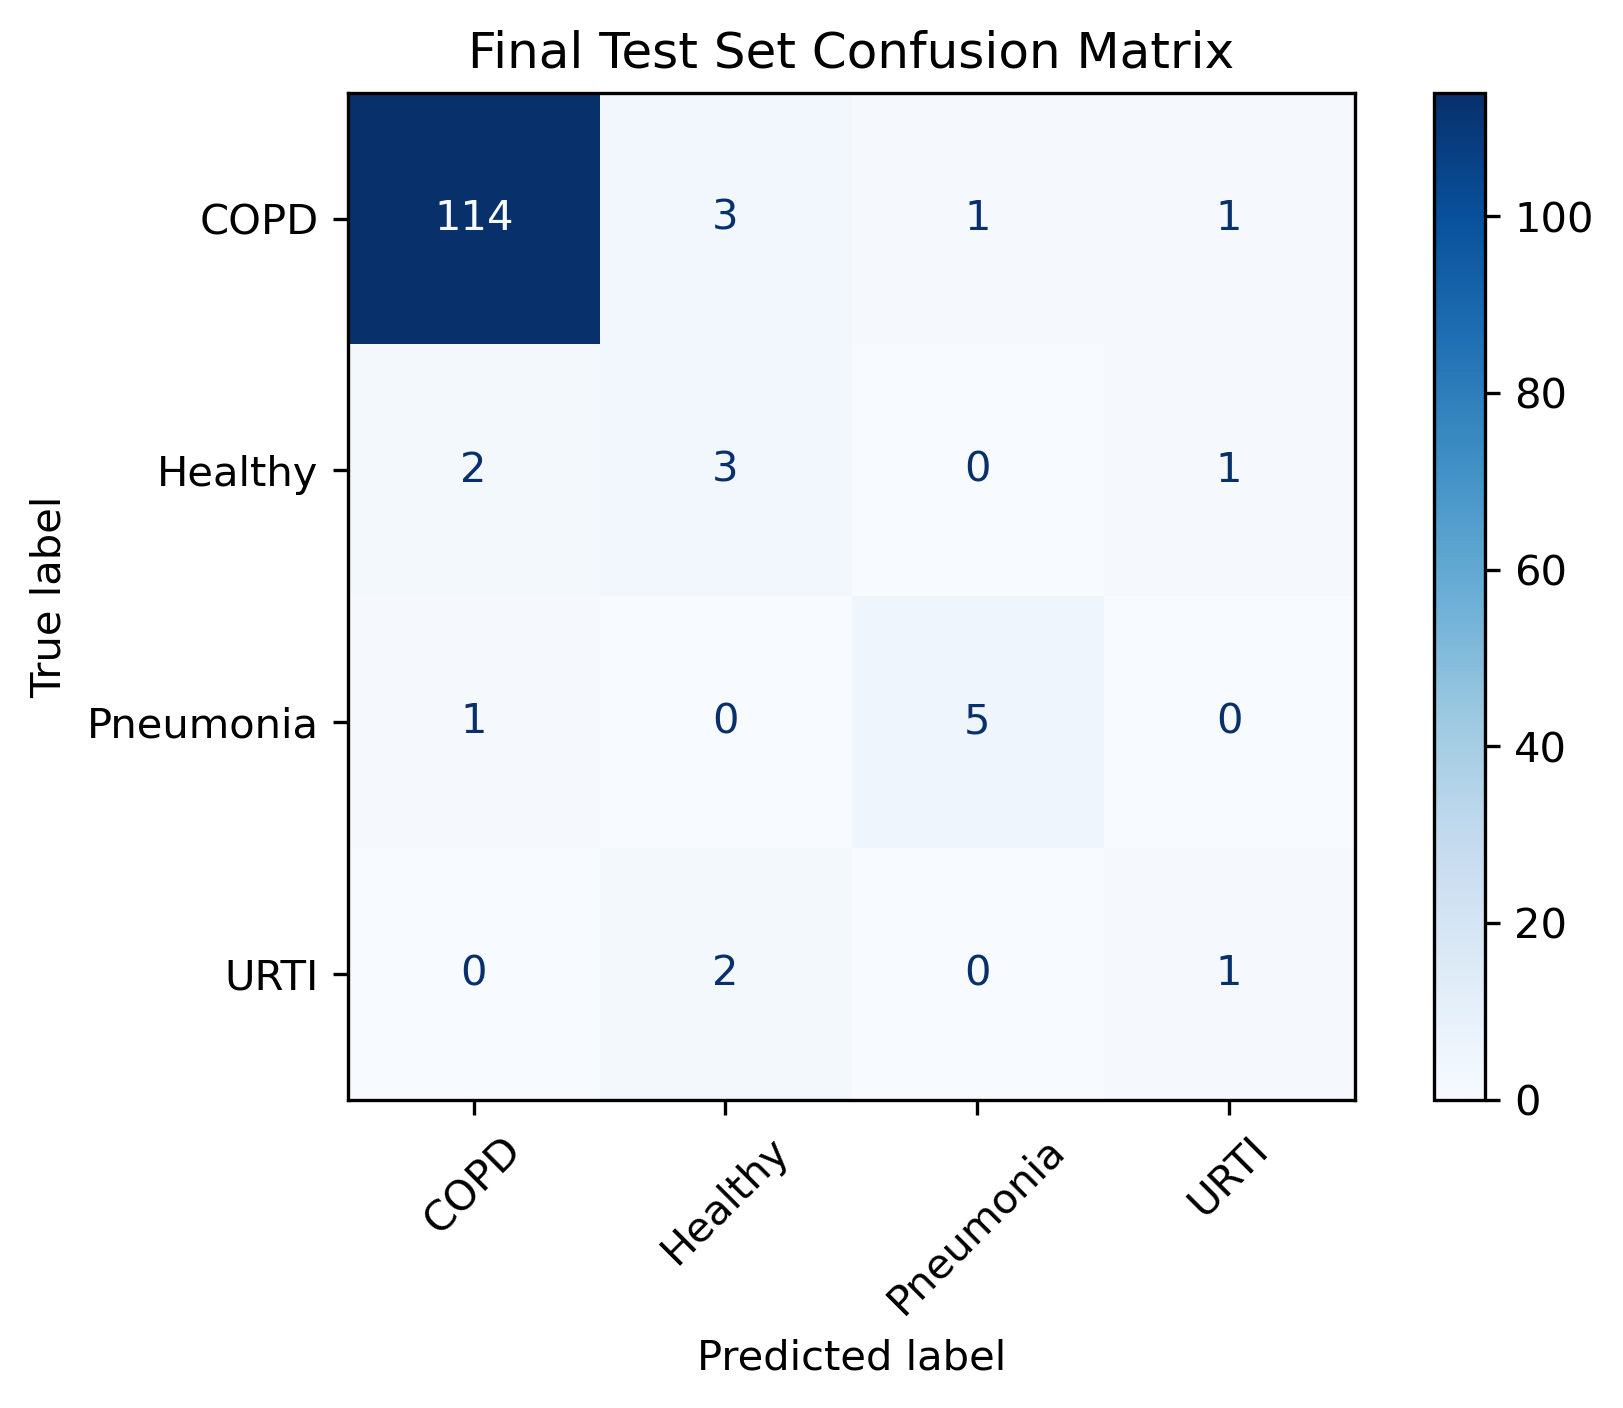
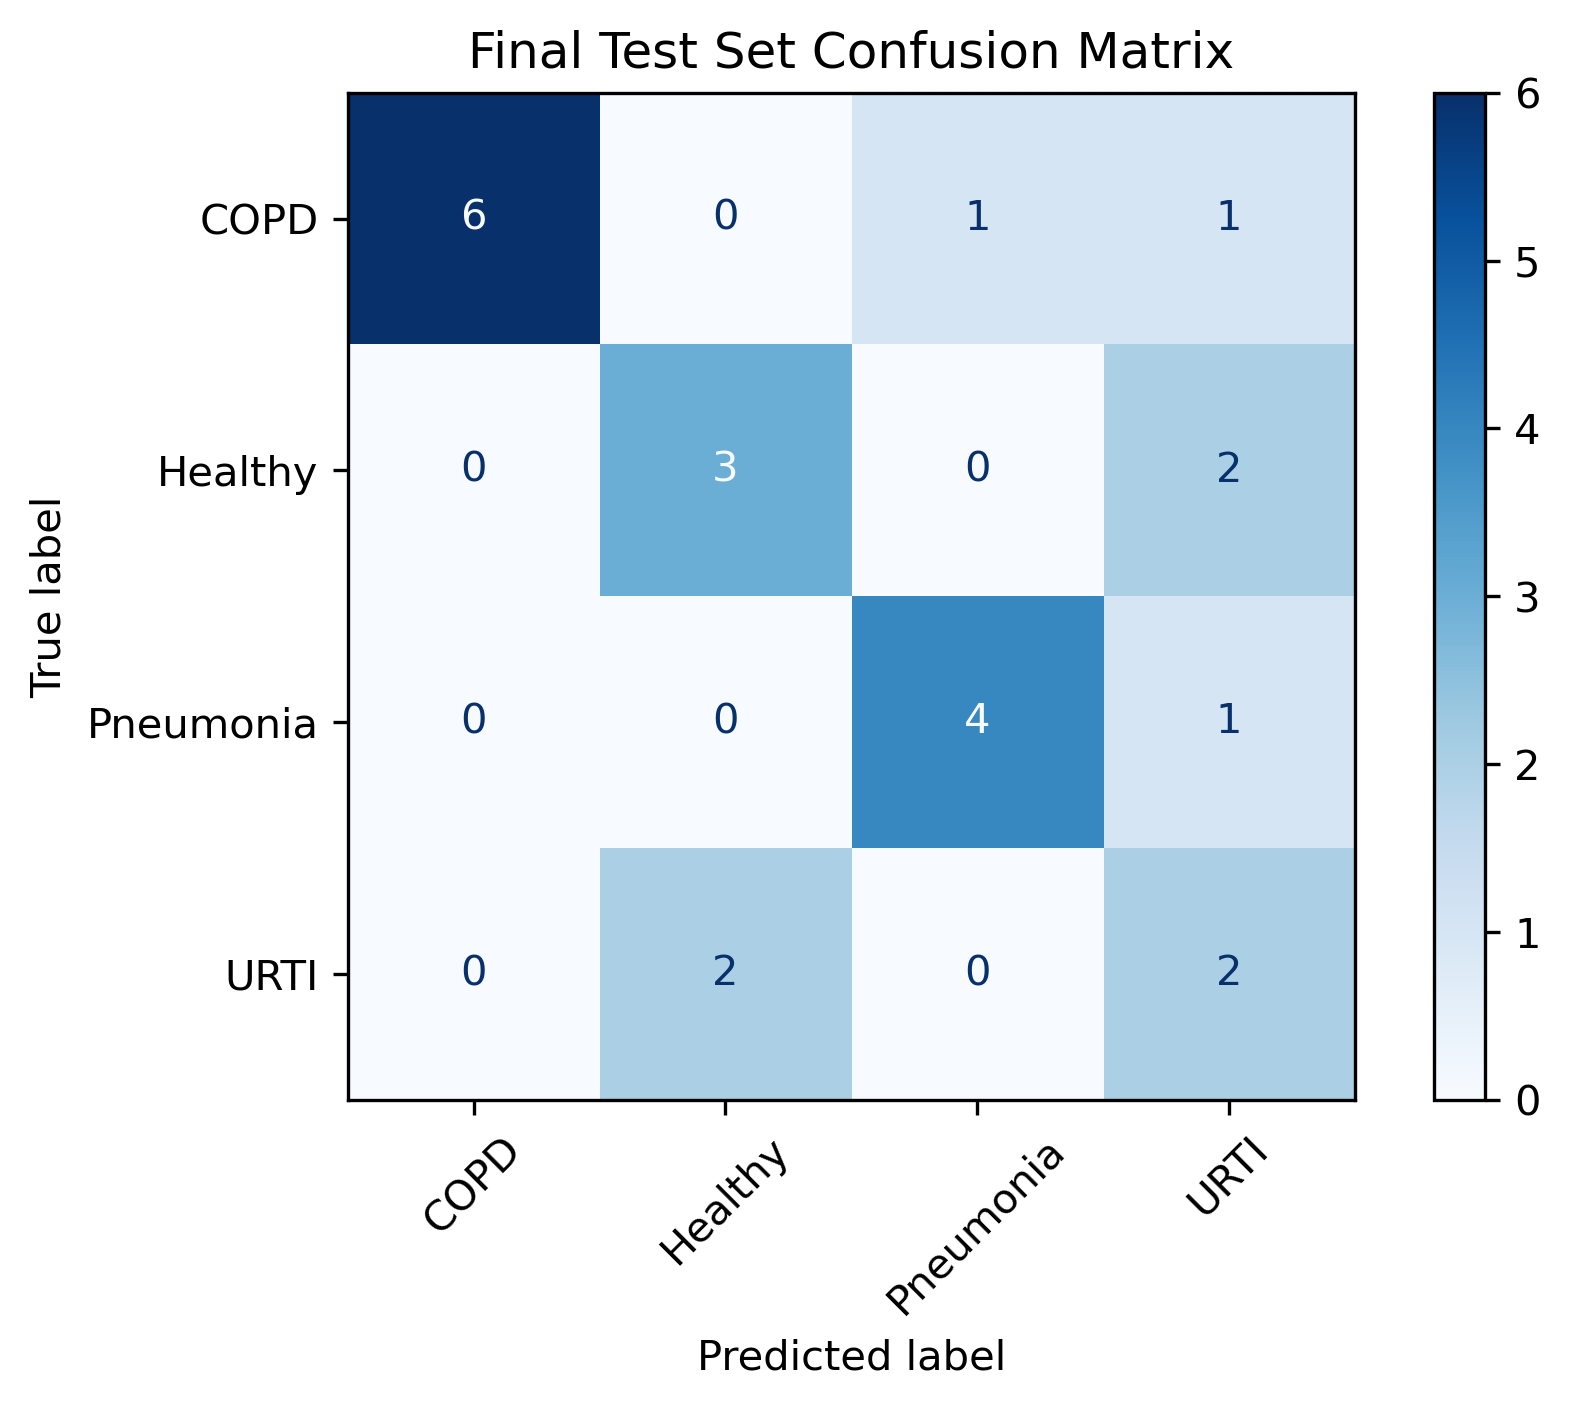
ICBHI try to banlance but looks so so

diff --git a/benchmark/mlp/ICBHI/ICBHI_mlp.py b/benchmark/mlp/ICBHI/ICBHI_mlp.py
@@ -49,11 +49,11 @@ class Config:
     METRICS_FILENAME = "icbhi_training_metrics_detailed.txt"
     CONFUSION_MATRIX_FILENAME = "icbhi_confusion_matrix.png"
 
-# ICBHI数据集类（适配多分类和WAV文件，过滤低占比类别）
+# ICBHI数据集类（适配多分类和WAV文件，平衡COPD类别数量）
 class ICBHIDataset(BaseDataset):
     @classmethod
     def load_data(cls, root_dir):
-        """加载ICBHI数据集，过滤掉占比低于2%的类别"""
+        """加载ICBHI数据集，过滤低占比类别并将COPD样本限制为50个左右"""
         # 标签文件的固定路径
         label_file_path = "/mnt/data/test1/Speech_Disease_Recognition_Dataset_Benchmark/benchmark/mlp/ICBHI/number_label.txt"
         
@@ -123,14 +123,34 @@ class ICBHIDataset(BaseDataset):
         if not Config.CLASS_NAMES:
             raise ValueError("没有类别满足占比 >= 2%的条件，无法继续处理")
         
-        # 第二遍筛选：只保留符合条件的文件
-        file_list = []
+        # 分离COPD和其他类别，限制COPD数量为50个左右
+        copd_files = []
+        other_files = []
+        target_copd_count = 50  # 目标COPD样本数量
+        
         for file_path, label_name in raw_file_list:
             if label_name in Config.CLASS_NAMES:
-                label = Config.CLASS_NAMES.index(label_name)
-                file_list.append((file_path, label))
+                if label_name == "COPD":
+                    copd_files.append((file_path, label_name))
+                else:
+                    other_files.append((file_path, label_name))
         
-        print(f"筛选后保留 {len(file_list)} 个带有有效标签的音频文件，开始处理...")
+        # 随机选择目标数量的COPD样本（保证随机性）
+        import random
+        random.seed(Config.RANDOM_STATE)  # 固定随机种子，保证结果可复现
+        selected_copd = random.sample(copd_files, min(target_copd_count, len(copd_files)))
+        
+        # 合并并创建最终文件列表
+        balanced_file_list = selected_copd + other_files
+        
+        # 转换为标签索引
+        file_list = []
+        for file_path, label_name in balanced_file_list:
+            label = Config.CLASS_NAMES.index(label_name)
+            file_list.append((file_path, label))
+        
+        print(f"\nCOPD类别已从 {len(copd_files)} 个样本筛选为 {len(selected_copd)} 个样本")
+        print(f"平衡后总样本数: {len(file_list)} 个带有有效标签的音频文件，开始处理...")
         
         features = []
         labels = []
@@ -187,7 +207,7 @@ class ICBHIDataset(BaseDataset):
         features = np.array(features)
         labels = np.array(labels)
         
-        # 打印筛选后的数据集统计信息
+        # 打印平衡后的数据集统计信息
         print(f"\n数据集加载完成 - 特征形状: {features.shape}")
         for i, class_name in enumerate(Config.CLASS_NAMES):
             count = np.sum(labels == i)
@@ -196,6 +216,7 @@ class ICBHIDataset(BaseDataset):
         print(f"处理成功率: {len(features)/len(file_list)*100:.2f}%")
         
         return features, labels
+    
     
 
 def main():
